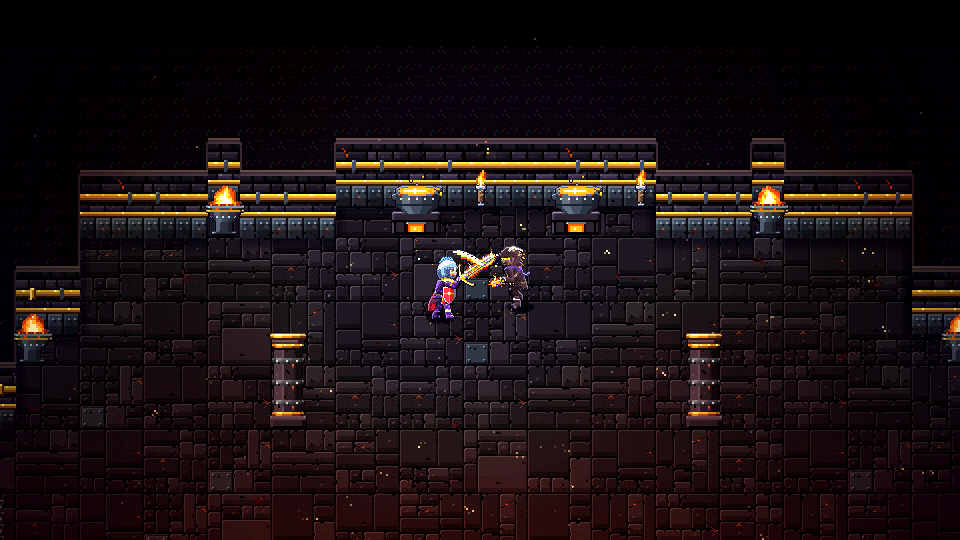
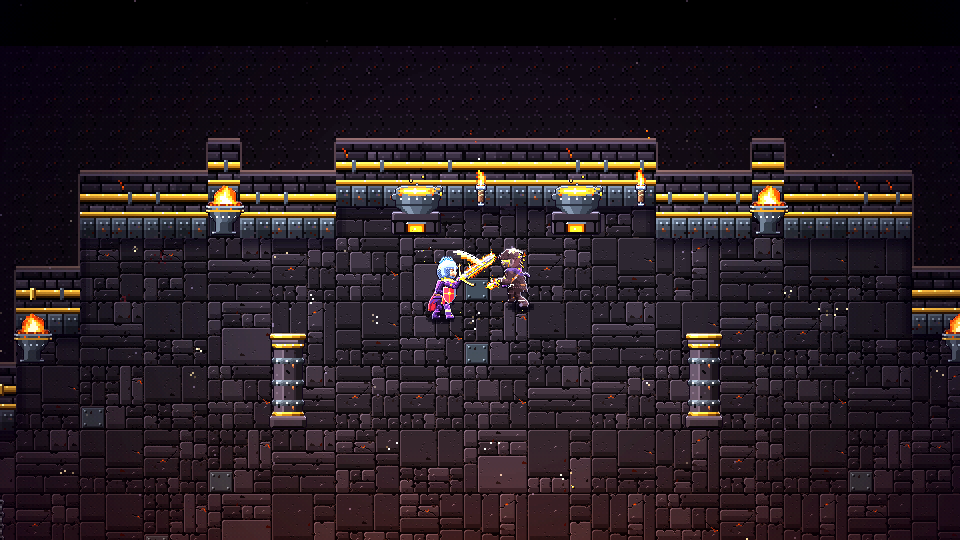
Welt-Seite: Glutarena-Boden heller, Aufbruch auf Handy quer mit ganzer Gruppe und Truhe
Claude-Session: https://claude.ai/code/session_016qez4g2cYdi8Ag5boUatPM

diff --git a/site/welt.css b/site/welt.css
@@ -150,8 +150,12 @@
 }
 /* Handy quer: jedes Bild passt unter die Kopfleiste */
 @media (min-width: 821px) and (max-height: 500px) {
-  .auftakt-bild { height: calc(100svh - 66px); min-height: 0; --f: 1.5; }
-  .auftakt-bild .shot { --ay: 0.6; }
   .et-bild, .band, .auftritt-bild { height: calc(100svh - 110px); min-height: 0; --f: 1; }
   .stufe { top: 76px; }
+}
+/* Einstieg auf dem Handy quer (auch unter 821 px Breite, z. B. 740 × 360): Faktor 1, damit Gruppe und Truhe (Bildpunkte
+   y 165–350) ganz in den Teil unter der Kopfleiste passen; --ay setzt die Gruppe in dessen Mitte */
+@media (orientation: landscape) and (max-height: 500px) {
+  .auftakt-bild { height: calc(100svh - 66px); min-height: 0; --f: 1; }
+  .auftakt-bild .shot { --ay: 0.6; }
 }
